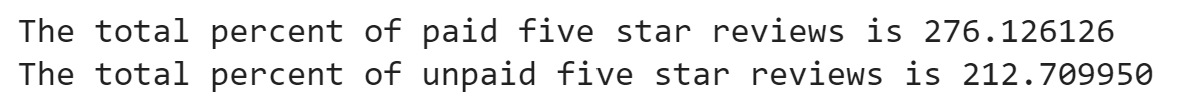
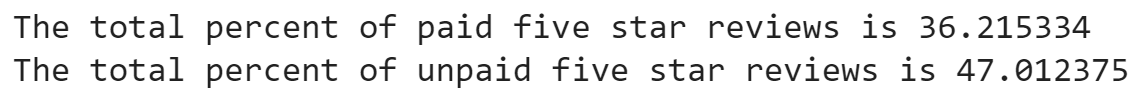
Complete Challenge

diff --git a/README.md b/README.md
@@ -1,1 +1,16 @@
 # Amazon_Vine_Analysis
+## Overview
+The purpose of this analysis was to analyze Amazon reviews for products using data from the Amazon Vine program. I chose the data for the wireless products using the data set found here, https://s3.amazonaws.com/amazon-reviews-pds/tsv/amazon_reviews_us_Wireless_v1_00.tsv.gz  
+
+## Results
+- How many Vine reviews and non-Vine reviews were there?
+![Total Reviews](https://github.com/AnnieShaffer/Amazon_Vine_Analysis/blob/main/images/Total_reviews.png)
+- How many Vine reviews were 5 stars? How many non-Vine reviews were 5 stars?
+![Five Star Reviews](https://github.com/AnnieShaffer/Amazon_Vine_Analysis/blob/main/images/Total_reviews.png)
+- What percentage of Vine reviews were 5 stars? What percentage of non-Vine reviews were 5 stars?
+![Percents](https://github.com/AnnieShaffer/Amazon_Vine_Analysis/blob/main/images/Total_Percent.png)
+
+## Summary
+Based on the analysis, there does not seem to be a positive bias to leave a positive review if the customer receives a product through the Amazon Vine program. The Amazon Vine reviews are actually more likely to leave a review that is not 5 stars based on this analysis.
+
+We could continue this analysis and look at the distribution of reviews for each group. From there, we could analyze if the Amazon Vine customers are more likely to leave a negative review or if they're reviews are more likely to have a normal distribution.
